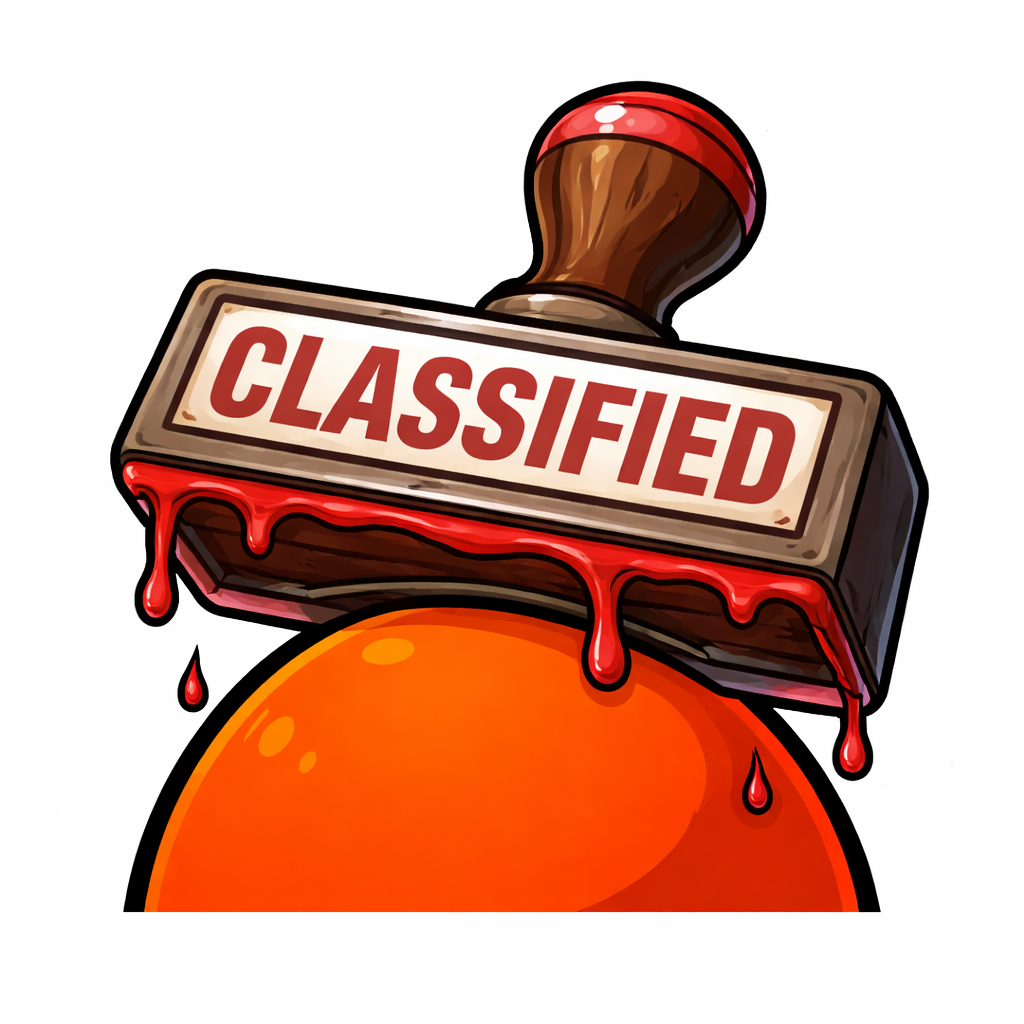
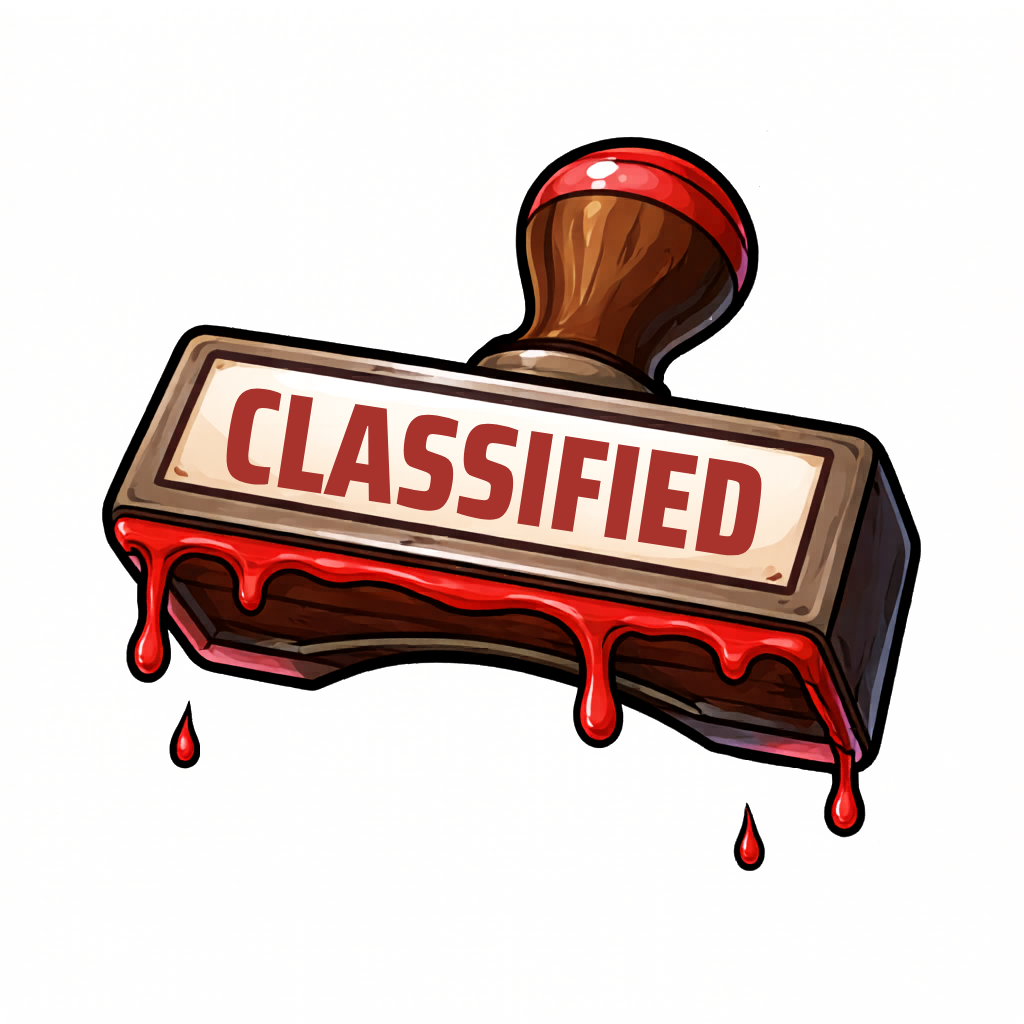
Deploy bg-removed sprites: objects, hats, ui coin (build 20260416030748)

diff --git a/index.html b/index.html
@@ -8,7 +8,7 @@
 <meta http-equiv="Cache-Control" content="no-cache, no-store, must-revalidate">
 <meta http-equiv="Pragma" content="no-cache">
 <meta http-equiv="Expires" content="0">
-<meta name="build" content="20260416030436">
+<meta name="build" content="20260416030748">
 <title>OPERATION ORANGE FURY</title>
 <style>
 *{margin:0;padding:0;box-sizing:border-box}
